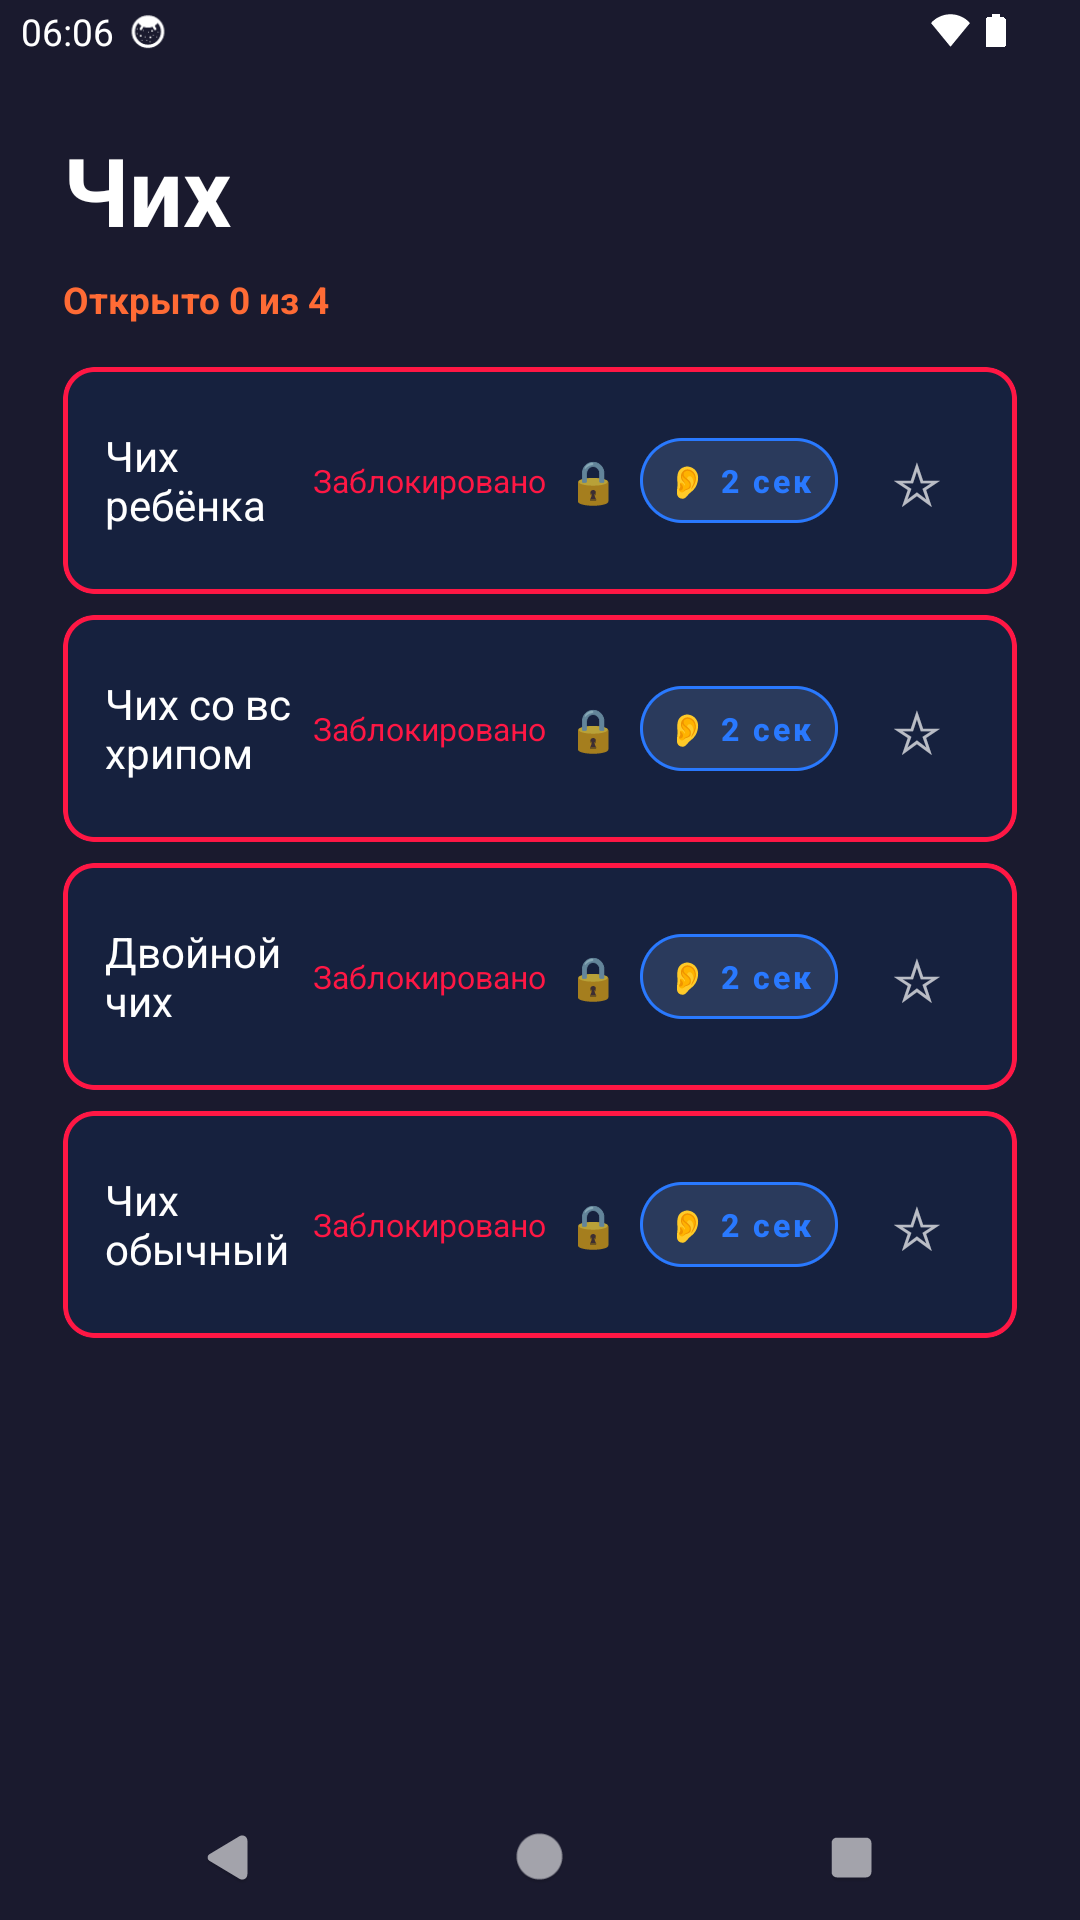
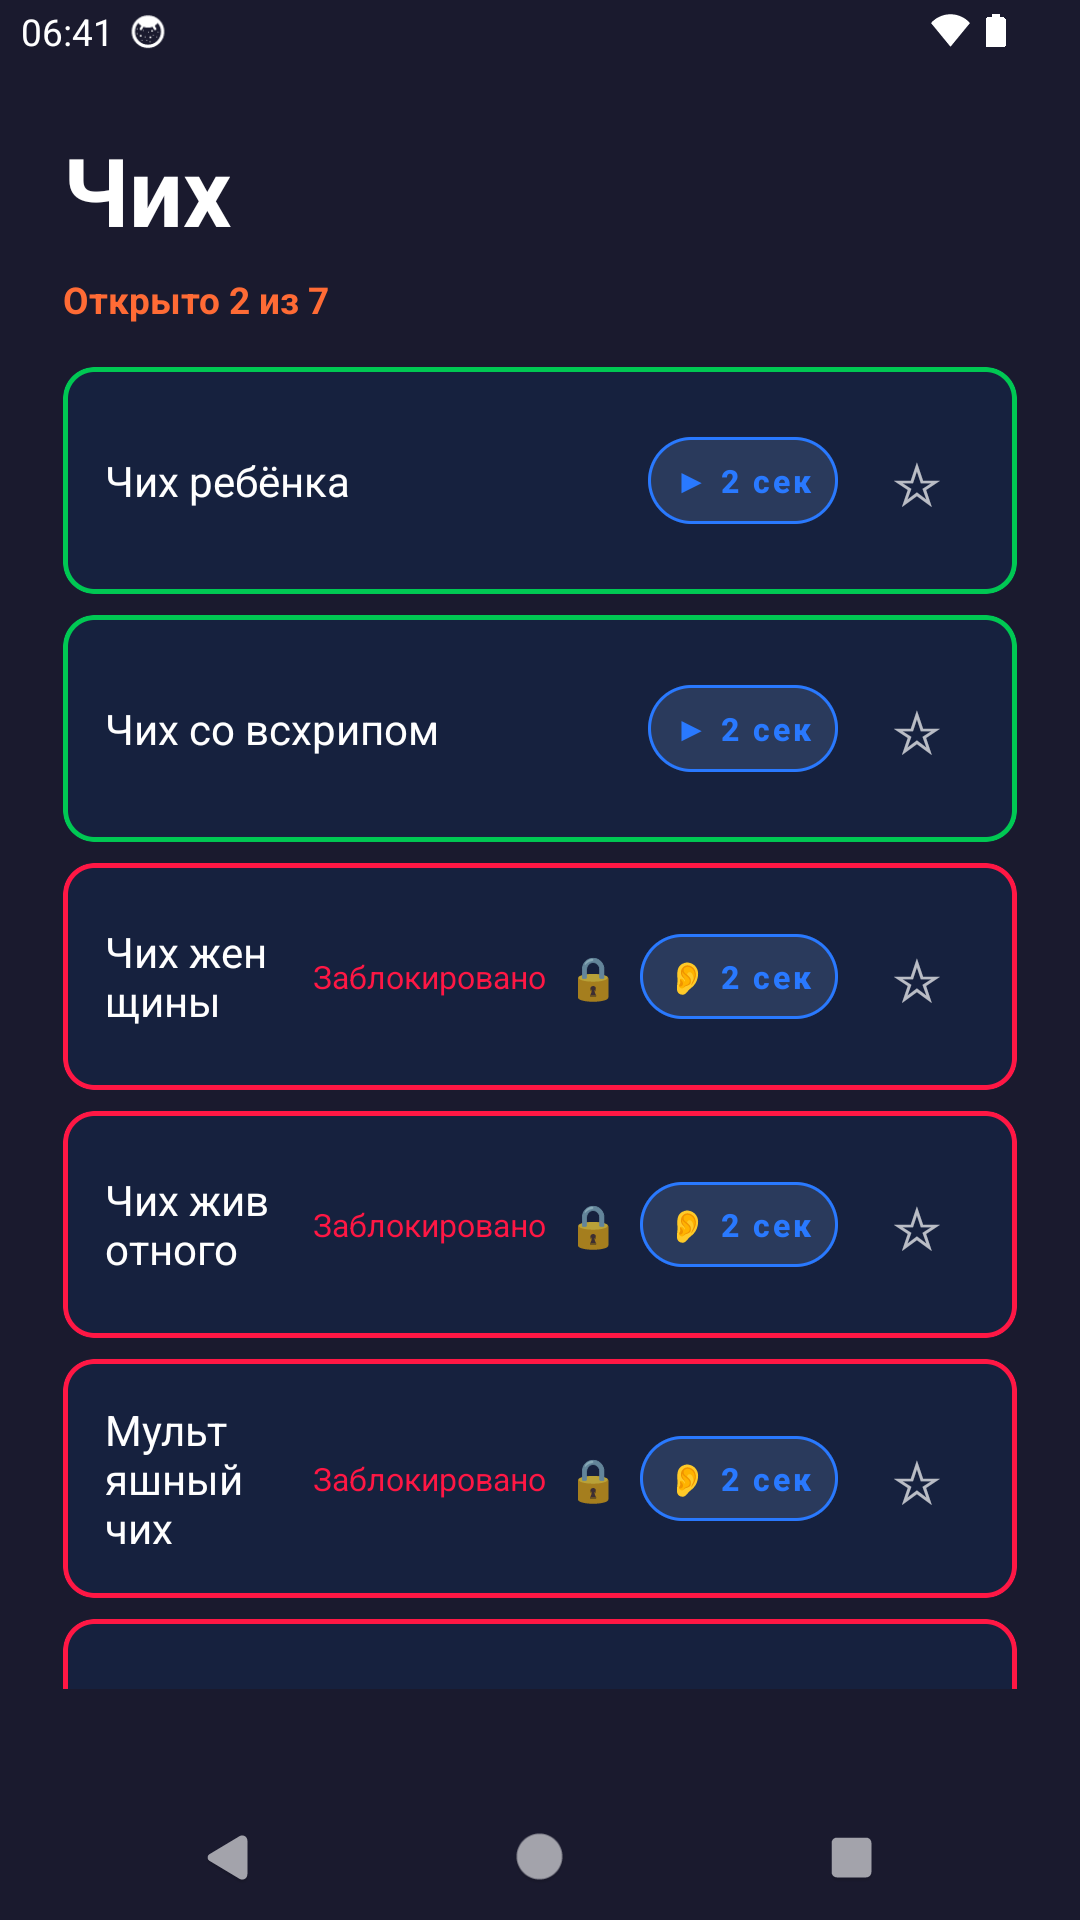
Версия 5.3: 93 звука, гиперссылка на APK, новые скриншоты

diff --git a/index.html b/index.html
@@ -4,7 +4,7 @@
 <meta charset="utf-8">
 <meta name="viewport" content="width=device-width, initial-scale=1">
 <title>Bunch — смешные звуки для розыгрышей</title>
-<meta name="description" content="Bunch — 70+ смешных звуков для розыгрышей: чихи, кашли, пуки, отрыжка. Будильник с приколом, запись своих звуков, виджеты.">
+<meta name="description" content="Bunch — 93 смешных звука для розыгрышей: чихи, кашли, пуки, отрыжка. Будильник с приколом, запись своих звуков, виджеты.">
 <link rel="icon" href="images/icon.png">
 <link rel="stylesheet" href="style.css">
 <meta property="og:title" content="Bunch — смешные звуки для розыгрышей">
@@ -17,13 +17,15 @@
   <div class="wrap">
     <img class="hero-icon" src="images/icon.png" alt="Иконка Bunch">
     <h1>Bunch</h1>
-    <p class="tagline">70+ смешных звуков для розыгрышей: чихи, кашли, пуки, отрыжка, иканье</p>
+    <p class="tagline">93 смешных звука для розыгрышей: чихи, кашли, пуки, отрыжка, иканье</p>
     <div class="cta">
       <a class="btn btn-primary" href="https://www.rustore.ru/catalog/app/com.bunch.app">Скачать в RuStore</a>
-      <a class="btn btn-apk" href="https://github.com/takomak2012-cyber/bunch/releases/download/v5.2/Bunch_v5.2.apk">Скачать APK напрямую</a>
       <a class="btn btn-ghost" href="#features">Что внутри</a>
     </div>
-    <p class="note">Версия <b>5.2</b> · Android 7.0+ · 17,5 МБ · без регистрации · работает без интернета</p>
+    <p class="note">Версия <b>5.3</b> · 93 звука · Android 7.0+ · 18,5 МБ · без регистрации · работает без интернета</p>
+    <p class="direct-link">или скачайте APK напрямую:
+      <a href="https://github.com/takomak2012-cyber/bunch/releases/download/v5.3/Bunch_v5.3.apk">Bunch_v5.3.apk</a>
+    </p>
   </div>
 </header>
 
@@ -33,8 +35,8 @@
     <div class="grid">
       <div class="card">
         <div class="card-emoji">🎧</div>
-        <h3>70+ звуков</h3>
-        <p>Чих, кашель, пук, отрыжка, иканье, зевок, храп. Шесть подборок: Офис, Сцена, Кино, Животные, Тело, Приколы. Два звука в каждой категории — бесплатно навсегда.</p>
+        <h3>93 звука</h3>
+        <p>Чих, кашель, пук, отрыжка, иканье, зевок, храп. Семь подборок: Офис, Сцена, Кино, Животные, Тело, Приколы, Голоса. Два звука в каждой категории — бесплатно навсегда.</p>
       </div>
       <div class="card">
         <div class="card-emoji">⏰</div>
@@ -88,12 +90,14 @@
         <p>или откройте страницу в браузере:</p>
         <p class="install-url">takomak2012-cyber.github.io/bunch</p>
         <div class="version-box">
-          <p><b>Актуальная версия: 5.2</b> (versionCode 38) · размер 17,5 МБ</p>
-          <p><a href="https://github.com/takomak2012-cyber/bunch/releases/tag/v5.2">Релиз v5.2 и список прошлых версий</a></p>
-          <p class="hash">SHA-256: 4c0a1d6ad06f57c09e0a57c465462ce7c0fdf14423ae95d29df6d1dc5ef15b22</p>
+          <p><b>Актуальная версия: 5.3</b> (versionCode 39) · 93 звука · размер 18,5 МБ</p>
+          <p><a href="https://github.com/takomak2012-cyber/bunch/releases/tag/v5.3">Релиз v5.3 и список прошлых версий</a></p>
+          <p class="hash">SHA-256: e122d325f753be8a0976540ae53d8bd7ee0bc37e803489407a79704581c66522</p>
         </div>
         <a class="btn btn-primary" href="https://www.rustore.ru/catalog/app/com.bunch.app">Открыть в RuStore</a>
-        <a class="btn btn-apk" href="https://github.com/takomak2012-cyber/bunch/releases/download/v5.2/Bunch_v5.2.apk">Скачать APK</a>
+        <p class="direct-link">Прямая ссылка на APK:
+          <a href="https://github.com/takomak2012-cyber/bunch/releases/download/v5.3/Bunch_v5.3.apk">Bunch_v5.3.apk</a>
+        </p>
       </div>
     </div>
   </div>

diff --git a/style.css b/style.css
@@ -66,8 +66,10 @@ h1 {
 .btn:hover { transform: translateY(-2px); filter: brightness(1.06); }
 
 .btn-primary { background: var(--accent); color: #fff; }
-.btn-apk { background: var(--teal); color: #fff; }
 .btn-ghost { background: transparent; color: var(--text); border: 2px solid #3a3a5e; }
+
+.direct-link { color: var(--text-dim); font-size: 14px; margin: 10px 0 0; }
+.direct-link a { color: var(--accent); text-decoration: underline; }
 
 .note { color: #7d7d9a; font-size: 14px; margin-top: 22px; }
 
